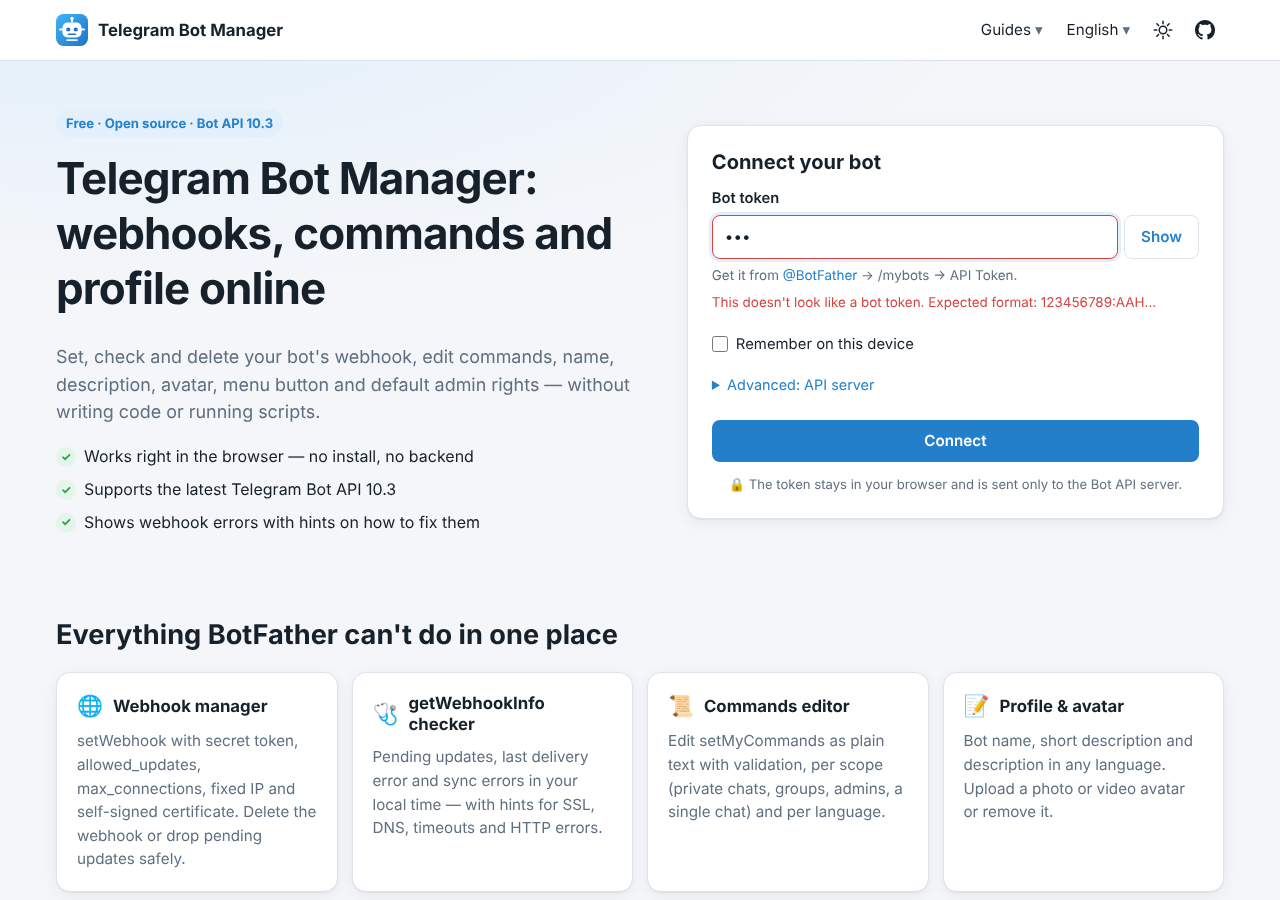
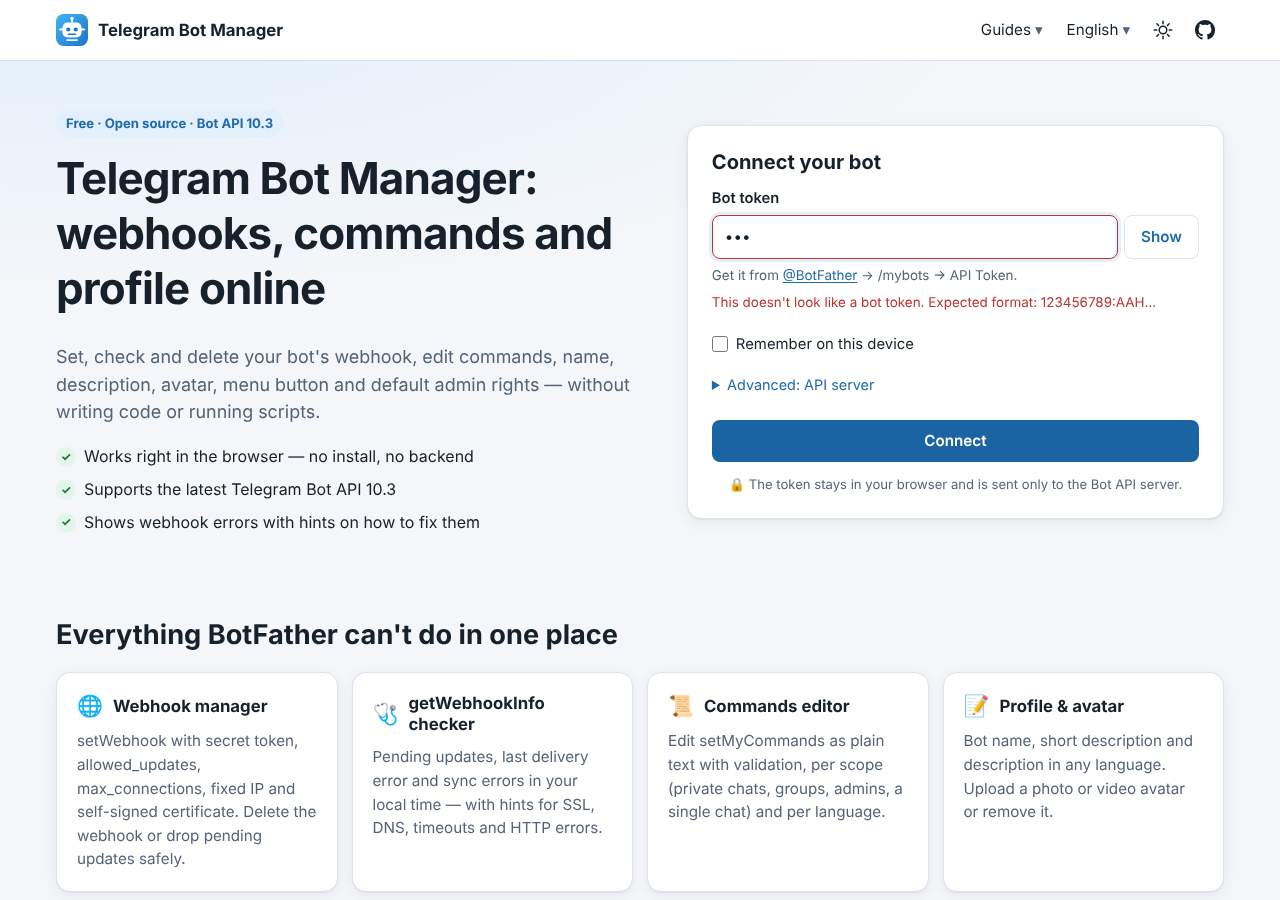
Improve accessibility contrast and remove render-blocking theme script
- Darken light-theme accent, success, warning, danger and muted colors to
  reach WCAG AA contrast; dark theme uses dark text on accent buttons
- Underline links inside text so they don't rely on color alone
- Inline theme.js with a CSP sha256 hash to save a blocking request
- Scope/language selects in the commands tab use full width
- Refresh README screenshots

Claude-Session: https://claude.ai/code/session_01Ti9i15KJoZzEDMWsyiELNj

Changed region(s): [[0.5312, 0.4667, 0.9375, 0.5289], [0.1562, 0.1244, 0.1875, 0.1556]]

diff --git a/src/assets/css/app.css b/src/assets/css/app.css
@@ -1,19 +1,21 @@
 /* Telegram Bot Manager — styles. Light/dark via tokens; data-theme overrides the system preference. */
 :root {
-  --accent: #2481cc;
-  --accent-hover: #1c6fb0;
+  --accent: #1d6aad;
+  --accent-hover: #17598f;
+  --on-accent: #ffffff;
+  --on-danger: #ffffff;
   --accent-soft: #e3f0fb;
   --bg: #f4f6f9;
   --surface: #ffffff;
   --surface-2: #f0f3f7;
   --border: #dde3ea;
   --text: #17212b;
-  --muted: #5f6f80;
-  --success: #2e9e4f;
+  --muted: #546375;
+  --success: #1f7a3c;
   --success-soft: #e4f5e9;
-  --danger: #d64541;
+  --danger: #b8352f;
   --danger-soft: #fdeceb;
-  --warn: #b7791f;
+  --warn: #8a5a0e;
   --warn-soft: #fdf4e3;
   --code-bg: #f6f8fa;
   --shadow: 0 1px 2px rgba(16, 24, 40, .06), 0 4px 16px rgba(16, 24, 40, .06);
@@ -27,6 +29,8 @@
   :root:not([data-theme="light"]) {
     --accent: #5aa7f0;
     --accent-hover: #7bb9f4;
+    --on-accent: #0e1621;
+    --on-danger: #0e1621;
     --accent-soft: #1d3247;
     --bg: #0e1621;
     --surface: #17212b;
@@ -49,6 +53,8 @@
 :root[data-theme="dark"] {
   --accent: #5aa7f0;
   --accent-hover: #7bb9f4;
+  --on-accent: #0e1621;
+  --on-danger: #0e1621;
   --accent-soft: #1d3247;
   --bg: #0e1621;
   --surface: #17212b;
@@ -85,6 +91,9 @@ main { flex: 1; }
 
 a { color: var(--accent); text-decoration: none; }
 a:hover { text-decoration: underline; }
+/* Links inside text must not rely on color alone. */
+p a, li a, td a, .hint a, .alert a { text-decoration: underline; text-underline-offset: 2px; }
+.footer-links a, .dropdown-menu a, .guide-card, a.btn, .breadcrumbs a { text-decoration: none; }
 
 h1, h2, h3 { line-height: 1.25; margin: 0 0 .6em; }
 h1 { font-size: clamp(1.9rem, 4vw, 2.75rem); letter-spacing: -.02em; }
@@ -107,7 +116,7 @@ img, svg { max-width: 100%; }
   clip: rect(0 0 0 0); white-space: nowrap; border: 0; padding: 0; margin: -1px;
 }
 
-.skip-link { position: absolute; left: 8px; top: -48px; background: var(--accent); color: #fff; padding: 8px 12px; border-radius: var(--radius-sm); z-index: 100; }
+.skip-link { position: absolute; left: 8px; top: -48px; background: var(--accent); color: var(--on-accent); padding: 8px 12px; border-radius: var(--radius-sm); z-index: 100; }
 .skip-link:focus { top: 8px; }
 
 .muted { color: var(--muted); }
@@ -164,13 +173,13 @@ img, svg { max-width: 100%; }
 }
 .btn:hover { text-decoration: none; }
 .btn:disabled { opacity: .6; cursor: progress; }
-.btn-primary { background: var(--accent); color: #fff; }
+.btn-primary { background: var(--accent); color: var(--on-accent); }
 .btn-primary:hover { background: var(--accent-hover); }
 .btn-secondary { background: var(--surface-2); color: var(--text); border-color: var(--border); }
 .btn-secondary:hover { border-color: var(--accent); }
 .btn-ghost { background: transparent; color: var(--accent); border-color: var(--border); }
 .btn-ghost:hover { background: var(--accent-soft); }
-.btn-danger { background: var(--danger); color: #fff; }
+.btn-danger { background: var(--danger); color: var(--on-danger); }
 .btn-danger:hover { filter: brightness(1.08); }
 .btn-block { width: 100%; }
 .btn-sm { min-height: 30px; padding: 4px 10px; font-size: .82rem; }
@@ -180,7 +189,7 @@ img, svg { max-width: 100%; }
   border: 2px solid currentColor; border-color: var(--muted) transparent var(--muted) transparent;
   animation: spin .8s linear infinite;
 }
-.btn-primary.is-busy::after, .btn-danger.is-busy::after { border-color: #fff transparent #fff transparent; }
+.btn-primary.is-busy::after, .btn-danger.is-busy::after { border-color: var(--on-accent) transparent var(--on-accent) transparent; }
 @keyframes spin { to { transform: rotate(360deg); } }
 
 .link-btn { background: none; border: 0; padding: 0 2px; color: var(--accent); cursor: pointer; font: inherit; font-size: .85rem; }
@@ -325,7 +334,7 @@ input[type="checkbox"], input[type="radio"] { accent-color: var(--accent); width
 .tabs { display: flex; gap: 4px; overflow-x: auto; margin-bottom: 14px; padding: 4px; background: var(--surface); border: 1px solid var(--border); border-radius: var(--radius); scrollbar-width: thin; }
 .tabs [role="tab"] { flex: none; border: 0; background: transparent; color: var(--muted); font: inherit; font-weight: 600; font-size: .92rem; padding: 9px 14px; border-radius: 10px; cursor: pointer; white-space: nowrap; }
 .tabs [role="tab"]:hover { color: var(--text); background: var(--surface-2); }
-.tabs [role="tab"][aria-selected="true"] { color: #fff; background: var(--accent); }
+.tabs [role="tab"][aria-selected="true"] { color: var(--on-accent); background: var(--accent); }
 
 .panel { padding: 24px; }
 @media (max-width: 640px) { .panel, .connect-card { padding: 16px; } }
@@ -387,7 +396,7 @@ input[type="checkbox"], input[type="radio"] { accent-color: var(--accent); width
 .feature-icon { font-size: 1.3rem; }
 .steps { counter-reset: step; list-style: none; padding: 0; margin: 0; display: grid; grid-template-columns: repeat(auto-fit, minmax(240px, 1fr)); gap: 14px; }
 .steps li { counter-increment: step; background: var(--surface); border: 1px solid var(--border); border-radius: var(--radius); padding: 20px 20px 20px 64px; position: relative; }
-.steps li::before { content: counter(step); position: absolute; left: 20px; top: 18px; width: 30px; height: 30px; border-radius: 50%; background: var(--accent); color: #fff; font-weight: 700; display: grid; place-items: center; }
+.steps li::before { content: counter(step); position: absolute; left: 20px; top: 18px; width: 30px; height: 30px; border-radius: 50%; background: var(--accent); color: var(--on-accent); font-weight: 700; display: grid; place-items: center; }
 .steps strong { display: block; margin-bottom: 4px; }
 .steps span { color: var(--muted); font-size: .95rem; }
 .check-list { list-style: none; padding: 0; margin: 0; display: grid; gap: 10px; max-width: 860px; }
@@ -437,3 +446,6 @@ body.is-connected .site-footer { margin-top: 0; }
 @media (prefers-reduced-motion: reduce) {
   *, *::before, *::after { animation: none !important; transition: none !important; }
 }
+
+.scope-grid { display: flex; flex-wrap: wrap; gap: 0 12px; }
+.scope-grid > .field { flex: 1 1 220px; }

diff --git a/src/templates/layout.html b/src/templates/layout.html
@@ -3,7 +3,7 @@
 <head>
 <meta charset="utf-8">
 <meta name="viewport" content="width=device-width, initial-scale=1">
-<meta http-equiv="Content-Security-Policy" content="default-src 'self'; script-src 'self'; style-src 'self'; img-src 'self' data: blob: https: http://localhost:* http://127.0.0.1:*; connect-src https: http://localhost:* http://127.0.0.1:*; font-src 'self'; manifest-src 'self'; base-uri 'self'; form-action 'none'; object-src 'none'">
+<meta http-equiv="Content-Security-Policy" content="default-src 'self'; script-src 'self' '{{site.themeHash}}'; style-src 'self'; img-src 'self' data: blob: https: http://localhost:* http://127.0.0.1:*; connect-src https: http://localhost:* http://127.0.0.1:*; font-src 'self'; manifest-src 'self'; base-uri 'self'; form-action 'none'; object-src 'none'">
 <meta name="referrer" content="strict-origin-when-cross-origin">
 <title>{{page.title}}</title>
 <meta name="description" content="{{page.description}}">
@@ -32,7 +32,7 @@
 <link rel="apple-touch-icon" href="{{root}}assets/img/apple-touch-icon.png">
 <link rel="manifest" href="{{root}}site.webmanifest">
 <link rel="stylesheet" href="{{root}}assets/css/app.css?v={{site.version}}">
-<script src="{{root}}assets/js/theme.js?v={{site.version}}"></script>
+<script>{{{site.themeScript}}}</script>
 {{{page.jsonLd}}}
 </head>
 <body class="page-{{page.id}}">

diff --git a/src/templates/index.html b/src/templates/index.html
@@ -219,7 +219,7 @@
         <h2>{{t.ui.commands.title}}</h2>
       </div>
       <p class="muted">{{t.ui.commands.intro}}</p>
-      <div class="grid-4 scope-grid">
+      <div class="scope-grid">
         <div class="field">
           <label for="cmd-scope">{{t.ui.commands.scope}}</label>
           <select id="cmd-scope"></select>

diff --git a/CHANGELOG.md b/CHANGELOG.md
@@ -3,6 +3,9 @@
 ## 3.0.1 — 2026-10-08
 
 ### Fixed
+- Accessibility: text/background contrast meets WCAG AA in both themes; links inside text are underlined.
+- Theme script is inlined (CSP hash) to remove a render-blocking request.
+- Command scope and language selects are no longer truncated.
 - Bot avatar was not shown: api.telegram.org serves files without CORS headers, so the avatar is now loaded as a regular image (via a proxy it is still downloaded as a blob).
 
 ## 3.0.0 — 2026-10-08
